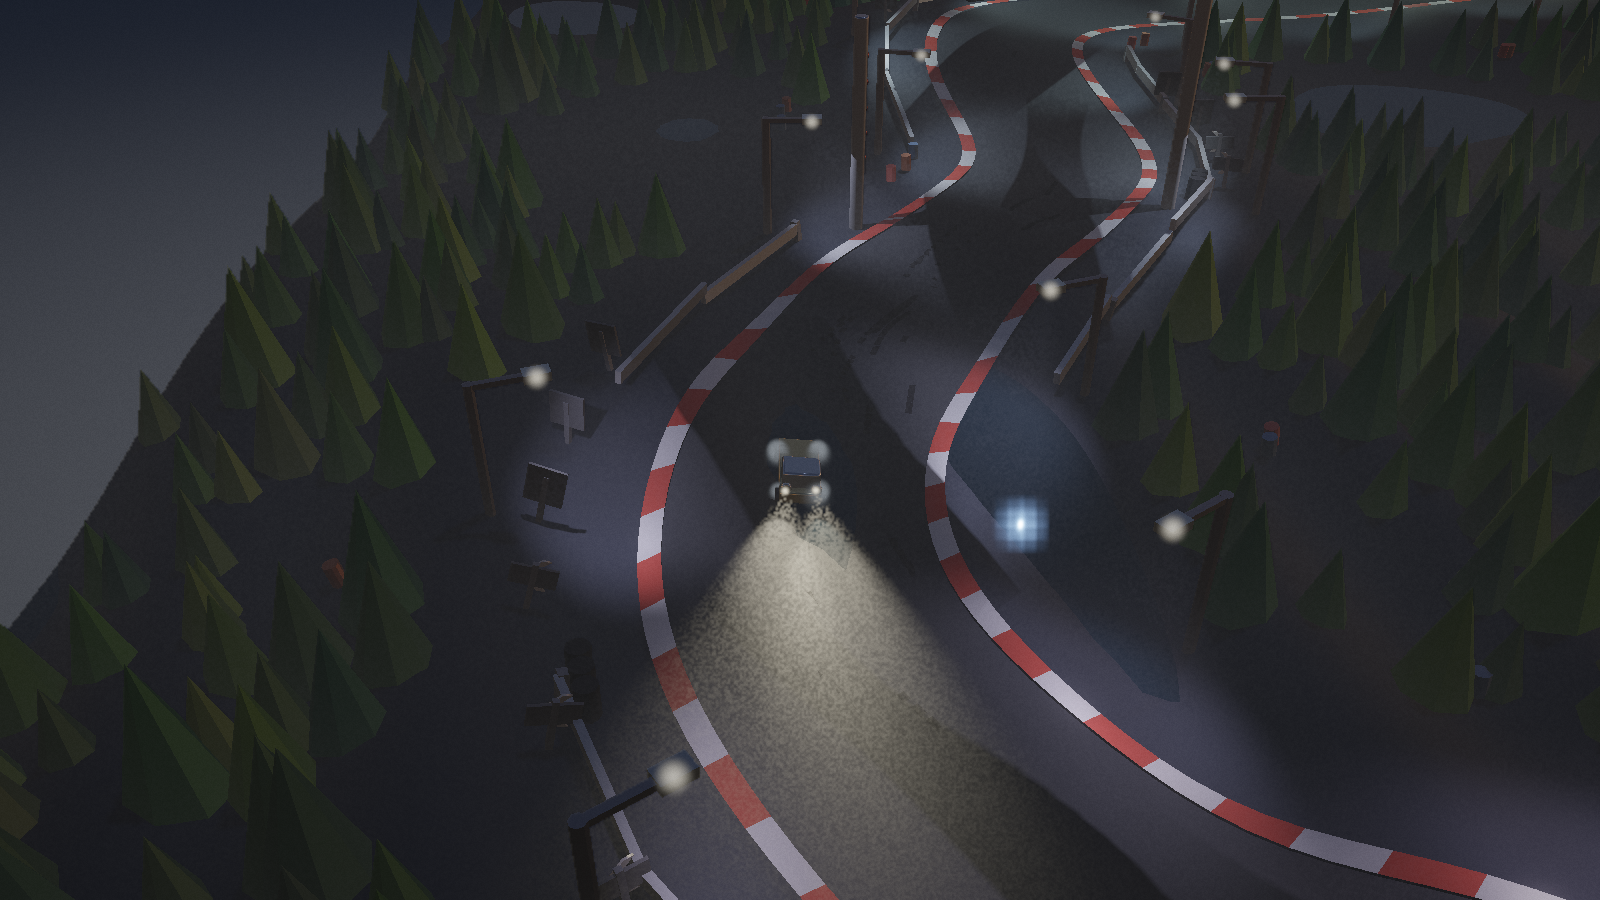
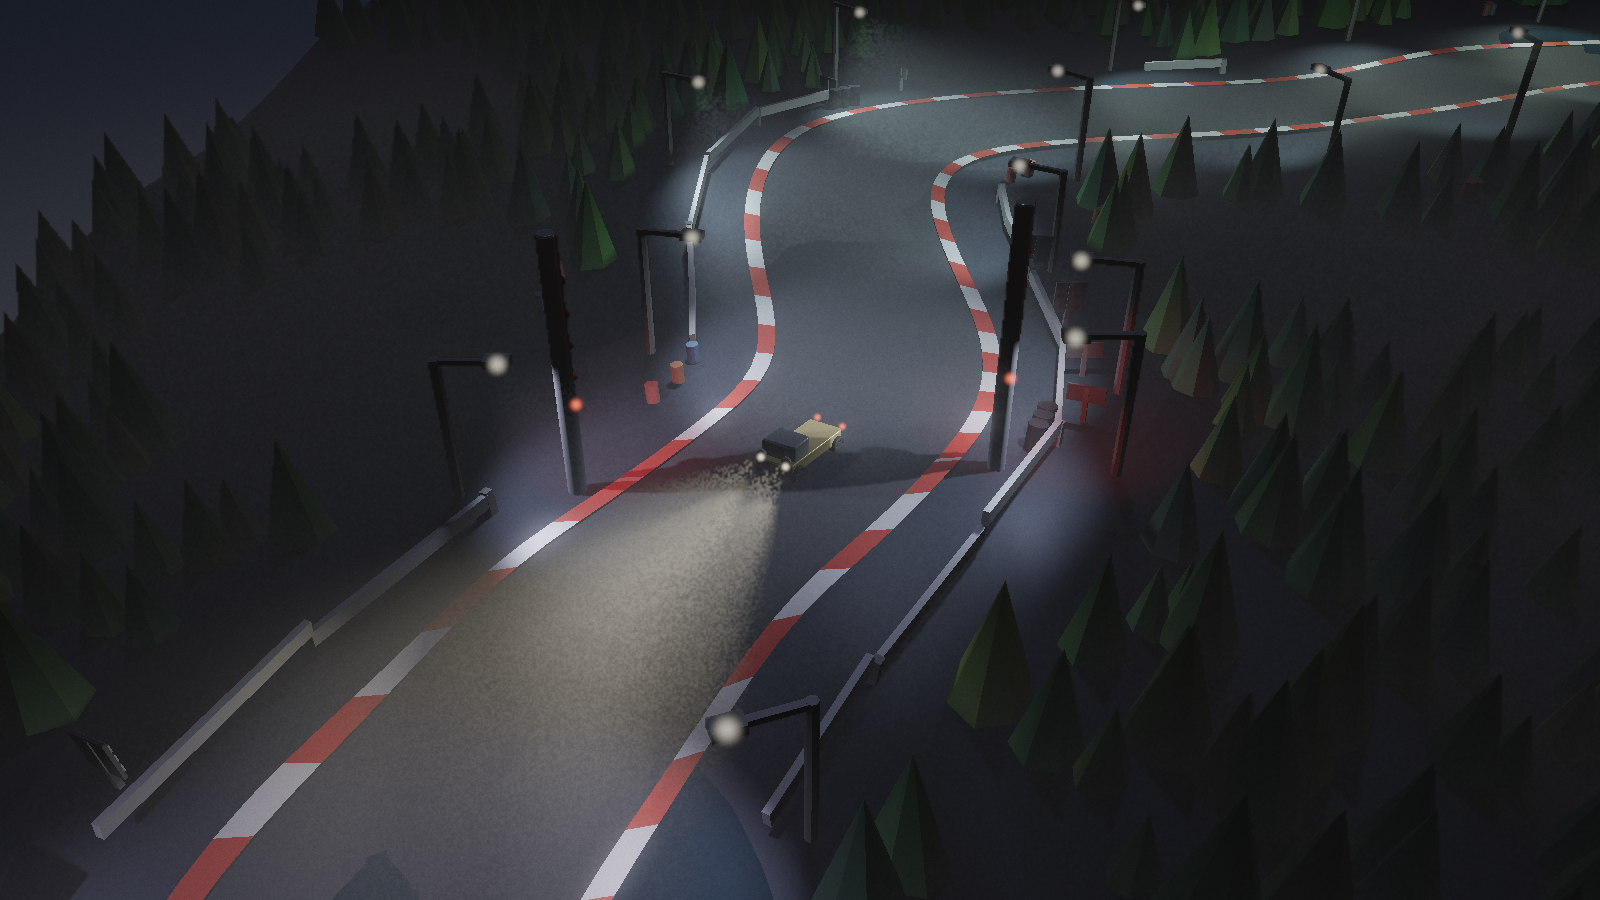
The lamps were inside their own heads
The road at night had dark areas in it: a hard-edged black bite out of
every lamp's pool from a third of the way across the tarmac to past the
far edge, and long black wedges across the road wherever the circuit bent.
Not the moon, not the fog, not the trees or the terrain or the truck —
skipping each static group from the spot maps in turn found it: each
lamp's own head. The flood was placed at the centre of a box 27 deep, and
the half of that box beyond the shadow map's 20-unit near plane — the
underside, out toward the road — was drawn into the lamp's own map, where
a blocker a few millimetres from the lens shades everything behind it.

The beam now leaves from just under the head (`beamAt`); the head, the arm
and the glow stay where `lampAt` puts them. The lamps' shadows also soften
with distance (`spotSoftness`, artshape-render v0.11.0), so a neighbour's
shadow of a post as tall as the lamp lands as a smear rather than a wedge.
0.10 ms of the night frame: 4.92 ms at 1080p.

`shoot(w, h, name)` writes docs/<name>.png, so a series of captures can be
compared side by side without each overwriting the hero — which is how
every A/B here was done. The hero is re-shot with the road lit.

diff --git a/src/scene.ts b/src/scene.ts
@@ -129,7 +129,7 @@ export const MESHES = {
    */
   pole: () => prism(POLE_RADIUS, COLUMN_HEIGHT, 8),
   arm: () => box(LAMP_ARM, 21, 17),
-  head: () => box(78, 50, 27),
+  head: () => box(78, 50, HEAD_DEPTH),
   /**
    * The player is a technical: a flatbed with a gun on the back that aims
    * where it likes, not where the truck is pointing. It is five parts rather
@@ -166,6 +166,8 @@ export const COLUMN_HEIGHT = 520;
  */
 export const POLE_RADIUS = 17;
 export const LAMP_ARM = 210;
+/** How deep the head on the end of the arm is, top face to underside. */
+export const HEAD_DEPTH = 27;
 /** How far a post's foot stands from the edge of the tarmac. */
 export const POST_CLEARANCE = 470;
 
@@ -178,6 +180,21 @@ export function lampAt(post: Post): [number, number, number] {
   const x = post.x + Math.cos(post.aim) * reach;
   const y = post.y + Math.sin(post.aim) * reach;
   return [x, y, height(post.x, post.y) - SINK + COLUMN_HEIGHT * post.scale - 8];
+}
+
+/**
+ * Where the light itself comes from: just under the head, not inside it.
+ *
+ * The flood used to be placed at the head's centre, which put a box round
+ * it. The half of that box past the shadow map's near plane — the head's
+ * underside, out toward the road — was drawn into the lamp's own map, and
+ * from a blocker a few millimetres from the lens it shaded everything from
+ * a third of the way across the tarmac to past the far edge. Every lamp
+ * did it, and the road at night was pools with a black bite out of each.
+ */
+export function beamAt(post: Post): [number, number, number] {
+  const [x, y, z] = lampAt(post);
+  return [x, y, z - HEAD_DEPTH / 2 - 2];
 }
 
 /**

diff --git a/src/main.ts b/src/main.ts
@@ -80,6 +80,11 @@ async function main() {
     // carried it and the floor a metre away never knew it existed. At nine
     // hundred a passing shot lights a bay of the hall.
     falloffHalf: 900,
+    // The lamps' shadows soften with distance. Every lamp post stands as
+    // tall as the lamps beside it, so each neighbour threw its shadow across
+    // the road as a hard wedge with no end; a pole 2500 away now lands as a
+    // smear a hand wide. A truck under its own lamp keeps a crisp shadow.
+    spotSoftness: 1 / 500,
     // A dark hall. The environment lights everything everywhere before a
     // single point light exists, so leaving it at one meant the floor was
     // already lit and a shot going past had nothing to add.
@@ -486,7 +491,7 @@ async function main() {
    * writes it to docs/. A screenshot of the browser is a screenshot of the
    * browser: this is the frame itself, at whatever size the picture wants.
    */
-  const shoot = async (w = 1600, h = 900) => {
+  const shoot = async (w = 1600, h = 900, name = 'arena') => {
     canvas.width = w; canvas.height = h;
     renderer.resize(w, h);
     if (!touched) reframe(true, w / h);
@@ -499,7 +504,7 @@ async function main() {
     renderer.frame(ctx.context.getCurrentTexture().createView(), 'redraw', 1 / 60);
     await ctx.queue.onSubmittedWorkDone();
     const png = canvas.toDataURL('image/png');
-    await fetch('/__shot', { method: 'POST', body: png });
+    await fetch(`/__shot?name=${name}`, { method: 'POST', body: png });
     return png.length;
   };
   Object.assign(globalThis as Record<string, unknown>, {

diff --git a/src/lighting.ts b/src/lighting.ts
@@ -18,7 +18,7 @@
 import { LightPool } from 'artshape-render/game/lights';
 import { EFFECT_STRIDE } from 'artshape-render/game/renderer';
 import type { Race } from './game';
-import { COLUMNS, LAMP_ACROSS, LAMP_AHEAD, LAMP_HEIGHT, lampAt } from './scene';
+import { COLUMNS, LAMP_ACROSS, LAMP_AHEAD, LAMP_HEIGHT, beamAt, lampAt } from './scene';
 import { height } from './terrain';
 import { gantry } from './track';
 import { project } from './matrix';
@@ -55,7 +55,7 @@ function floods(pool: LightPool, on: number) {
     // about the post, and this file used to re-derive it from the post's
     // index in the list, which is the sort of thing that is right until
     // someone changes the order.
-    const [x, y, z] = lampAt(post);
+    const [x, y, z] = beamAt(post);
     const inx = Math.cos(post.aim); const iny = Math.sin(post.aim);
     const hue = (i / COLUMNS.length + 0.12) % 1;
     const c = hueToRgb(hue);

diff --git a/vite.config.ts b/vite.config.ts
@@ -11,12 +11,16 @@ const capture = (): Plugin => ({
   apply: 'serve',
   configureServer(server) {
     server.middlewares.use('/__shot', (req, res) => {
+      // `?name=x` writes docs/x.png, for a series of captures compared side
+      // by side; the hero image is the default so nothing that shoots it
+      // needs to know
+      const name = (new URL(req.url ?? '', 'http://x').searchParams.get('name') ?? 'arena').replace(/[^\w-]/g, '');
       let body = '';
       req.on('data', (c) => { body += c; });
       req.on('end', () => {
         const [, data] = body.split(',');
         mkdirSync('docs', { recursive: true });
-        writeFileSync('docs/arena.png', Buffer.from(data, 'base64'));
+        writeFileSync(`docs/${name}.png`, Buffer.from(data, 'base64'));
         res.end('ok');
       });
     });

diff --git a/README.md b/README.md
@@ -793,8 +793,35 @@ tree's shadow is under the tree. At 08:00, with the sun at 33 degrees, they
 turn 5.7% of the frame dark and drop the mean 3.7%: lamp posts across the
 road, lit and shaded sides on every tree, the trucks' own under them. The
 evening is the same the other way round. By night the moon casts, faintly,
-and the lamps cast hard — a post's own shadow across the road under it, and
-the trucks' as they pass.
+and the lamps cast — a post's own shadow across the road under it, and the
+trucks' as they pass.
+
+### The lamps were inside their own heads
+
+The road at night had dark areas in it: a hard-edged black bite out of every
+lamp's pool, from a third of the way across the tarmac to past the far edge,
+and long black wedges across the road wherever the circuit bent. It was not
+the moon (turned off, the same), not the fog (turned off, the same), not the
+trees or the terrain or the truck — skipping each static group from the
+spot maps in turn, one by one, found it: the lamp heads. Not the neighbours'
+heads. Each lamp's own.
+
+The flood was placed at the centre of its head, and the head is a box 27
+deep. The half of that box beyond the shadow map's 20-unit near plane — the
+underside, out toward the road — was drawn into the lamp's own map, and a
+blocker a few millimetres from the lens shades everything behind it: from
+where the near plane cut the box (a straight edge, which is what made the
+bite look cut with a knife) out to the box's far corner, 71 degrees from
+straight down. The beam now leaves from just under the head, `beamAt`,
+while the head, the arm and the glow stay where `lampAt` puts them.
+
+The lamps' shadows also soften with distance now — `spotSoftness` in the
+renderer's look, a texel of the map per 500 units the surface is from the
+lamp. Every post stands as tall as the lamps beside it, so a neighbour's
+shadow of it has no end; at 2500 from a lamp a pole's shadow lands as a
+smear a hand wide rather than a wedge, and a truck under its own lamp keeps
+a crisp one. Eight taps on a spiral turned by a per-pixel hash instead of
+four fixed ones: 0.10 ms of the night frame.
 
 The tests for all of this live with the library: a box over a floor, the
 floor in its shadow darker than beside it, for the sun and for a spotlight.
@@ -1204,7 +1231,10 @@ the renderer's `economy.post` turns the whole chain off.
 Measured on a Mac mini (M-series) at 1920×1080, fenced on the queue rather
 than timed off `requestAnimationFrame` — a browser tab that is not being
 composited stops calling back, and reads as a scene that mysteriously got
-slower. `measure(width, height, frames)` is on the console for repeating it.
+slower. `measure(width, height, frames)` is on the console for repeating it,
+and `shoot(width, height, name)` draws one frame at a chosen size and writes
+it to `docs/<name>.png` through the dev server — the frame itself, not a
+screenshot of the pane — which is how every A/B in this file was compared.
 
 Measured at the framing the arena opens on, with the camera settled — which
 matters more than it sounds. The figure in this table before this one was
@@ -1214,8 +1244,11 @@ the lamps than it ended up. Let the orbit stop before timing anything.
 
 | | lights | steps | ms a frame |
 | --- | ---: | ---: | ---: |
-| night, haze and cones | 46 | 19 | 4.27 |
+| night, haze and cones | 46 | 19 | 4.92 |
 | noon, nothing in the air | 2 | — | 0.62 |
+
+The night figure was 4.27 before the trackside furniture (4.34), the marker
+boards and chevrons (4.82), and the soft edge on the lamps' shadows (4.92).
 
 A frame at sixty is 16.7 ms, so the night frame has four times its own cost
 in hand; 1440p is 7.0. Of the 4.27, medians of three with each configuration
